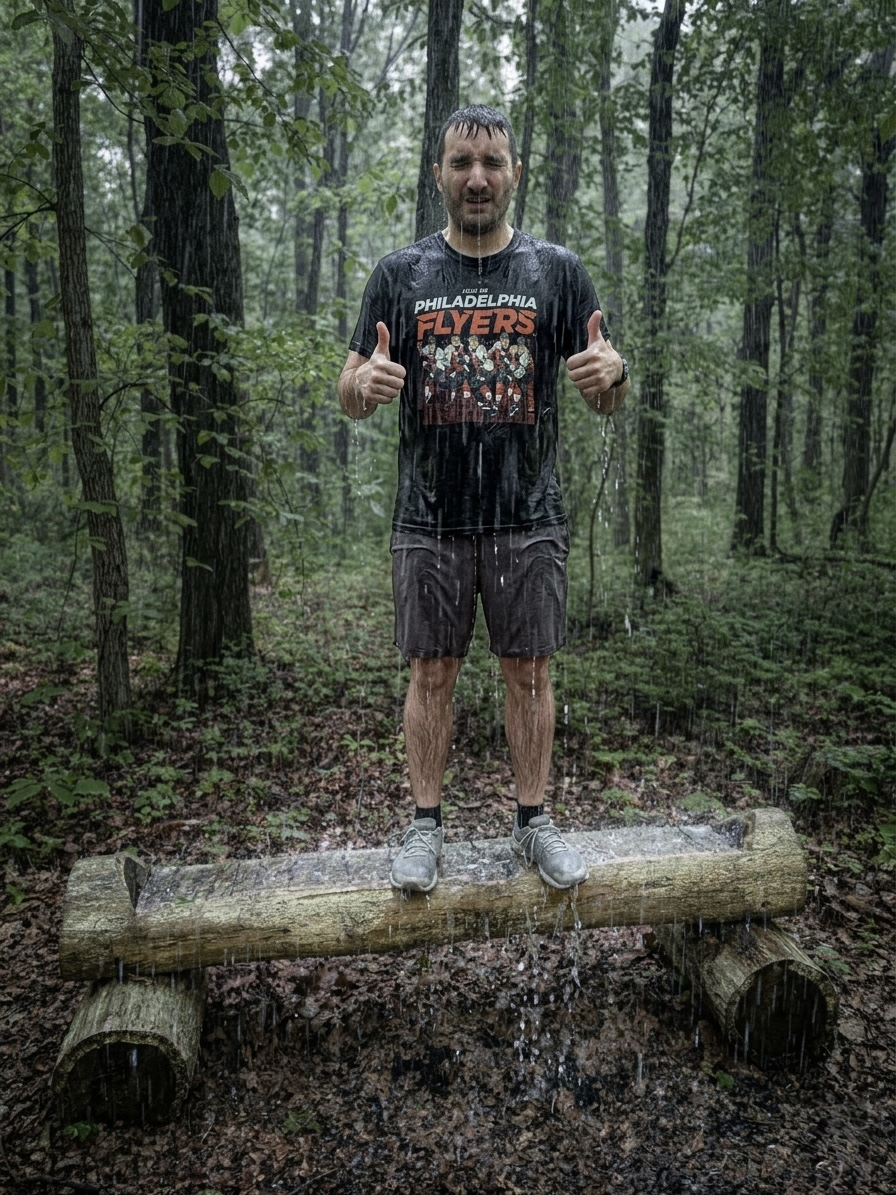
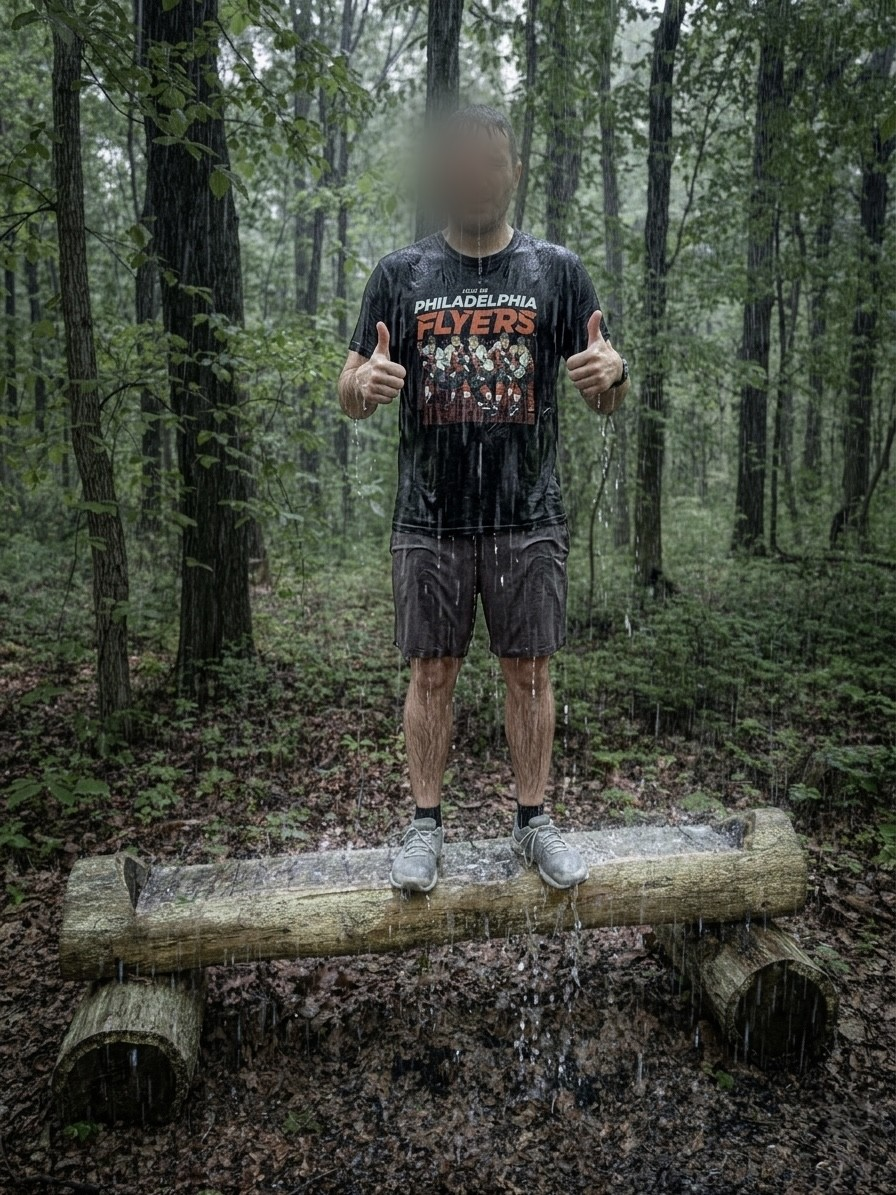
Obscure face in photo and reduce cover to title only
Blur the face region in the photo with a feathered mask, and strip the
cover overlay down to just the title (remove the bottom scrim band;
rely on text-shadow for legibility).

Claude-Session: https://claude.ai/code/session_01V9t7ntfSVPMNjCQ4CCCM6Q

Changed region(s): [[0.4375, 0.0619, 0.5938, 0.2167]]

diff --git a/hope-youre-happy.html b/hope-youre-happy.html
@@ -25,11 +25,6 @@
     position:absolute;inset:0;width:100%;height:100%;
     object-fit:cover;object-position:50% 35%;
   }
-  /* just enough shade at the bottom to keep the title legible */
-  .cover .scrim{
-    position:absolute;inset:0;
-    background:linear-gradient(transparent 45%, rgba(0,0,0,.75) 100%);
-  }
   .title{
     position:absolute;left:28px;bottom:26px;right:28px;
     color:#fff;
@@ -39,7 +34,7 @@
     line-height:.95;
     letter-spacing:-.02em;
     text-transform:uppercase;
-    text-shadow:0 2px 20px rgba(0,0,0,.6);
+    text-shadow:0 2px 16px rgba(0,0,0,.85), 0 1px 4px rgba(0,0,0,.9);
   }
   .title .happy{color:#e8743b}
 </style>
@@ -47,7 +42,6 @@
 <body>
   <div class="cover">
     <img src="hope-youre-happy.jpg" alt="I Hope You're Happy" />
-    <div class="scrim"></div>
     <h1 class="title">I Hope You're <span class="happy">Happy</span></h1>
   </div>
 </body>